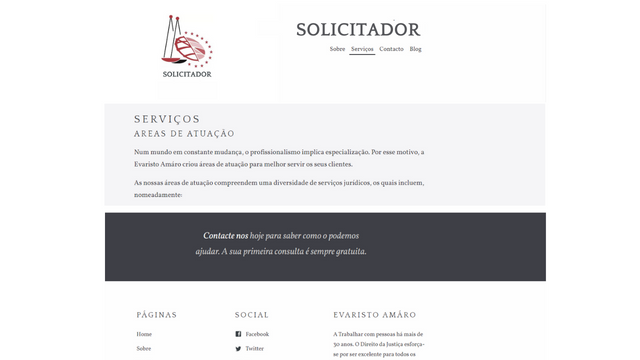
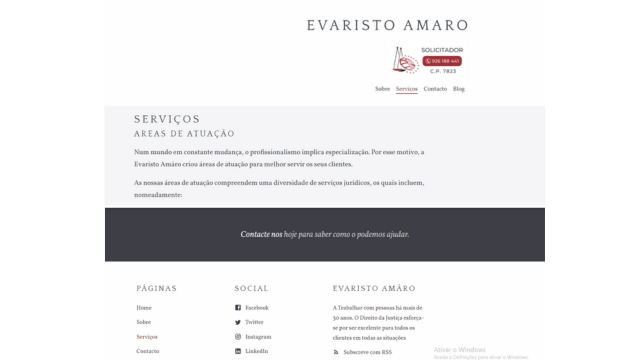
update Solicitor project & add new project prodigy

diff --git a/src/constants/constants.js b/src/constants/constants.js
@@ -229,12 +229,13 @@ export const projects = [
     id: 22,
   },
   {
-    title: "DESIGN",
-    description: "Next Project is in Design Phase. Soon will be visible.",
+    title: "Project Prodigy",
+    description:
+      "Simple, powerful & flexible markdown-powered docs site for readers. Built with Next.js.",
     image: "/images/24.png",
     tags: ["Javascript", "React", "Next.js", "MDX"],
-    source: "",
-    visit: "",
+    source: "https://project-prodigy.vercel.app/",
+    visit: "https://github.com/Joshhortt/project-prodigy",
     id: 23,
   },
   {
@@ -250,10 +251,10 @@ export const projects = [
   {
     title: "Solicitor",
     description:
-      "IN DEVELOPMENT. A Solicitor Law Firm Blog Website. Built with NextJS & Markdown.",
+      "A Solicitor Law Firm Blog Website. Built with NextJS & Markdown.",
     image: "/images/26.png",
     tags: ["Javascript", "React", "Next.js", "MDX"],
-    source: "",
+    source: "https://evaristoamaro.pt/",
     visit: "https://github.com/Joshhortt/solicitor",
     id: 25,
   },
